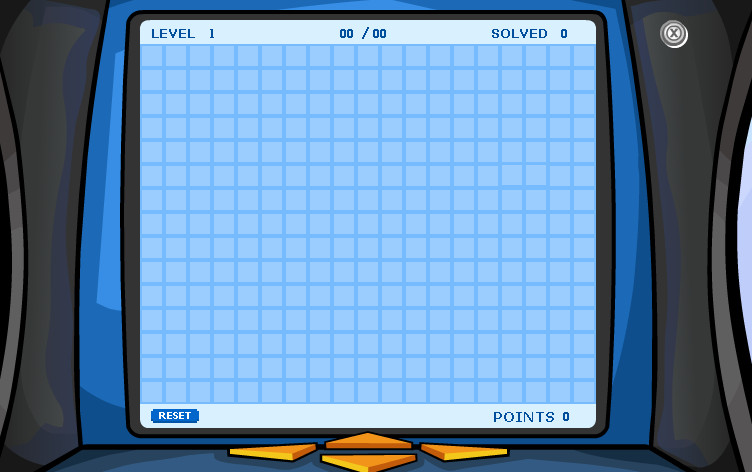
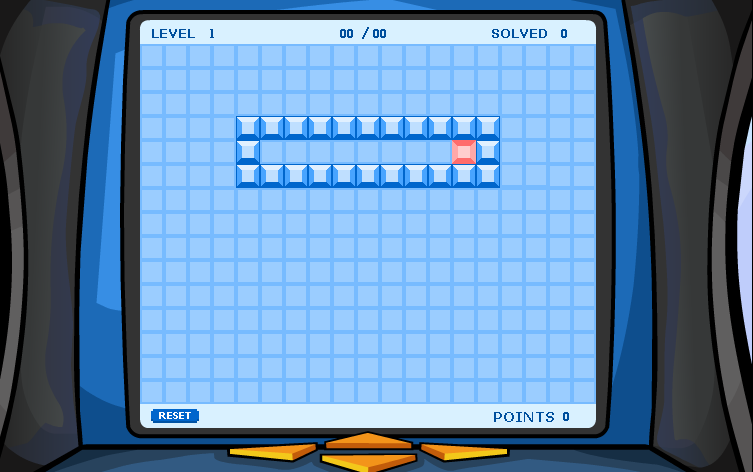
Add files via upload

diff --git a/public/Final Game Draft.html b/public/Final Game Draft.html
@@ -1,33 +1,95 @@
 
 
 <body style="background: url(GameArt/ThinIceLevel1.png); background-size: 100% 100%; position:absolute"></body>
-<img id="myImage01" width=65 src="GameArt/Thin_Ice_Puffle.gif" style="position:absolute; width:65px; height:70px; left:345px; top:70px;">
+
+
+<img id="myImage02" width=60 src="GameArt/SnowLayer.png" style="position:absolute; display:block; width:61px; height:49px; left:656px; top:282px;">
+<img id="myImage03" width=60 src="GameArt/SnowLayer.png" style="position:absolute; display:block; width:61px; height:49px; left:717px; top:282px;">
+<img id="myImage04" width=60 src="GameArt/SnowLayer.png" style="position:absolute; display:block; width:61px; height:49px; left:778px; top:282px;">
+<img id="myImage05" width=60 src="GameArt/SnowLayer.png" style="position:absolute; display:block; width:61px; height:49px; left:839px; top:282px;">
+<img id="myImage06" width=60 src="GameArt/SnowLayer.png" style="position:absolute; display:block; width:61px; height:49px; left:900px; top:282px;">
+<img id="myImage07" width=60 src="GameArt/SnowLayer.png" style="position:absolute; display:block; width:61px; height:49px; left:961px; top:282px;">
+<img id="myImage08" width=60 src="GameArt/SnowLayer.png" style="position:absolute; display:block; width:61px; height:49px; left:1022px; top:282px;">
+<img id="myImage09" width=60 src="GameArt/SnowLayer.png" style="position:absolute; display:block; width:61px; height:49px; left:1083px; top:282px;">
+
+
+<img id="myImage10" width=10 src="GameArt/WaterLayer.png" style="position:absolute; display:none; width:62px; height:49px; left:655px; top:282px;">
+<img id="myImage11" width=60 src="GameArt/WaterLayer.png" style="position:absolute; display:none; width:61px; height:49px; left:717px; top:282px;">
+<img id="myImage12" width=60 src="GameArt/WaterLayer.png" style="position:absolute; display:none; width:61px; height:49px; left:778px; top:282px;">
+<img id="myImage13" width=60 src="GameArt/WaterLayer.png" style="position:absolute; display:none; width:61px; height:49px; left:839px; top:282px;">
+<img id="myImage14" width=60 src="GameArt/WaterLayer.png" style="position:absolute; display:none; width:61px; height:49px; left:900px; top:282px;">
+<img id="myImage15" width=60 src="GameArt/WaterLayer.png" style="position:absolute; display:none; width:61px; height:49px; left:961px; top:282px;">
+<img id="myImage16" width=60 src="GameArt/WaterLayer.png" style="position:absolute; display:none; width:61px; height:49px; left:1022px; top:282px;">
+<img id="myImage17" width=60 src="GameArt/WaterLayer.png" style="position:absolute; display:none; width:61px; height:49px; left:1083px; top:282px;">
+
+<img id="myImage18" width=60 src="GameArt/RedWinLayer.png" style="position:absolute; display:block; width:61px; height:49px; left:1144px; top:282px;">
+
+<img id="myImage01" width=65 src="GameArt/Thin_Ice_Puffle.gif" style="position:absolute; width:65px; height:70px; left:650px; top:268px;">
 
 
 <script>
 
+function myHitOther(my1,my2){
+   left1   = parseInt(document.getElementById(my1).style.left)
+   right1  = left1 + parseInt(document.getElementById(my1).style.width)
+   top1    = parseInt(document.getElementById(my1).style.top)   
+   bottom1 = top1   + parseInt(document.getElementById(my1).style.height)
+   left2   = parseInt(document.getElementById(my2).style.left)
+   right2  = left2 + parseInt(document.getElementById(my2).style.width)
+   top2    = parseInt(document.getElementById(my2).style.top)   
+   bottom2 = top2   + parseInt(document.getElementById(my2).style.height)
+   if ((right1  >=  left2  ) &&      	   
+       (bottom1 >=  top2   ) &&
+       (left1   <=  right2 ) &&
+       (top1    <=  bottom2) ){
+       return true
+   }
+}
 
 
 document.onkeydown = checkKey
 
-
-
-
-
-
-
-
-
-
-
-
-
-
-
-
-
-
 function checkKey(myEvent){
+
+
+	if(myHitOther('myImage01','myImage02')){
+		myImage02.style.display = "none"; myImage10.style.display = "block"
+
+	}
+	if(myHitOther('myImage01','myImage03')){
+		myImage03.style.display = "none"; myImage11.style.display = "block"
+
+	}
+	if(myHitOther('myImage01','myImage04')){
+		myImage04.style.display = "none"; myImage12.style.display = "block"
+
+	}
+	if(myHitOther('myImage01','myImage05')){
+		myImage05.style.display = "none"; myImage13.style.display = "block"
+
+	}
+	if(myHitOther('myImage01','myImage06')){
+		myImage06.style.display = "none"; myImage14.style.display = "block"
+
+	}
+	
+	if(myHitOther('myImage01','myImage07')){
+		myImage07.style.display = "none"; myImage15.style.display = "block"
+
+	}
+	if(myHitOther('myImage01','myImage08')){
+		myImage08.style.display = "none"; myImage16.style.display = "block"
+
+	}
+	if(myHitOther('myImage01','myImage09')){
+		myImage09.style.display = "none"; myImage17.style.display = "block"
+
+	}
+	if(myHitOther('myImage01','myImage18')){
+		window.location.href = "index.html"
+	}
+	
+
 
 
 
@@ -40,7 +102,7 @@ function checkKey(myEvent){
 
 			//A
    
-   if (myEvent.keyCode == 65){ document.getElementById('myImage01').style.left = parseInt(document.getElementById('myImage01').style.left) - 61 + 'px' }
+   //if (myEvent.keyCode == 65){ document.getElementById('myImage01').style.left = parseInt(document.getElementById('myImage01').style.left) - 61 + 'px' }
 
 			//S
    
